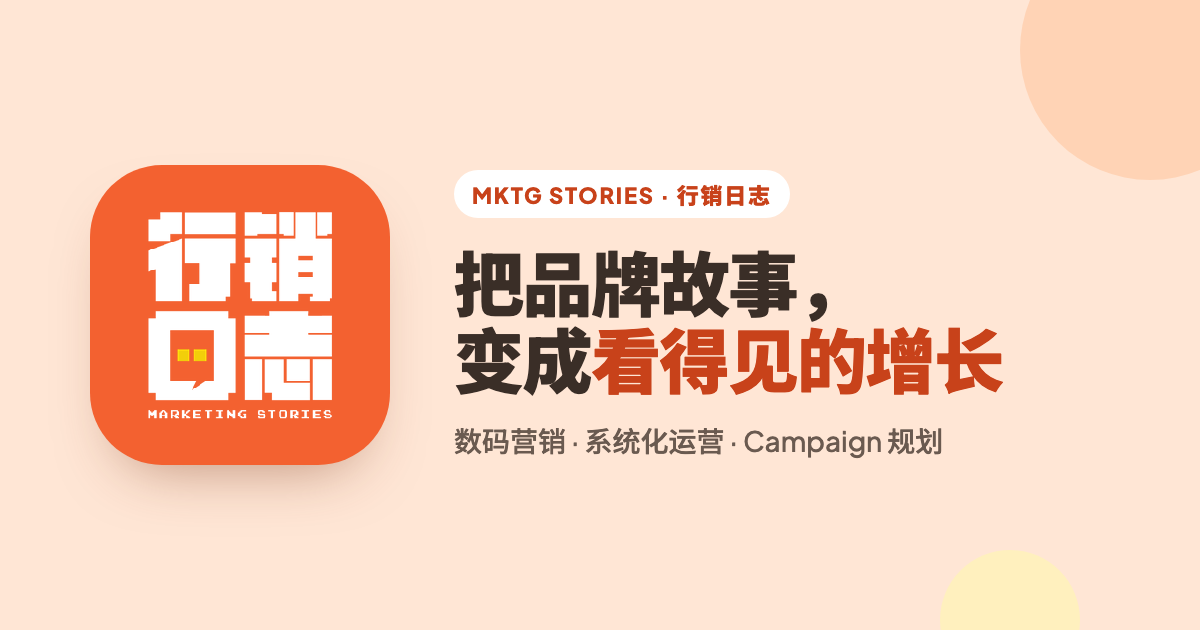
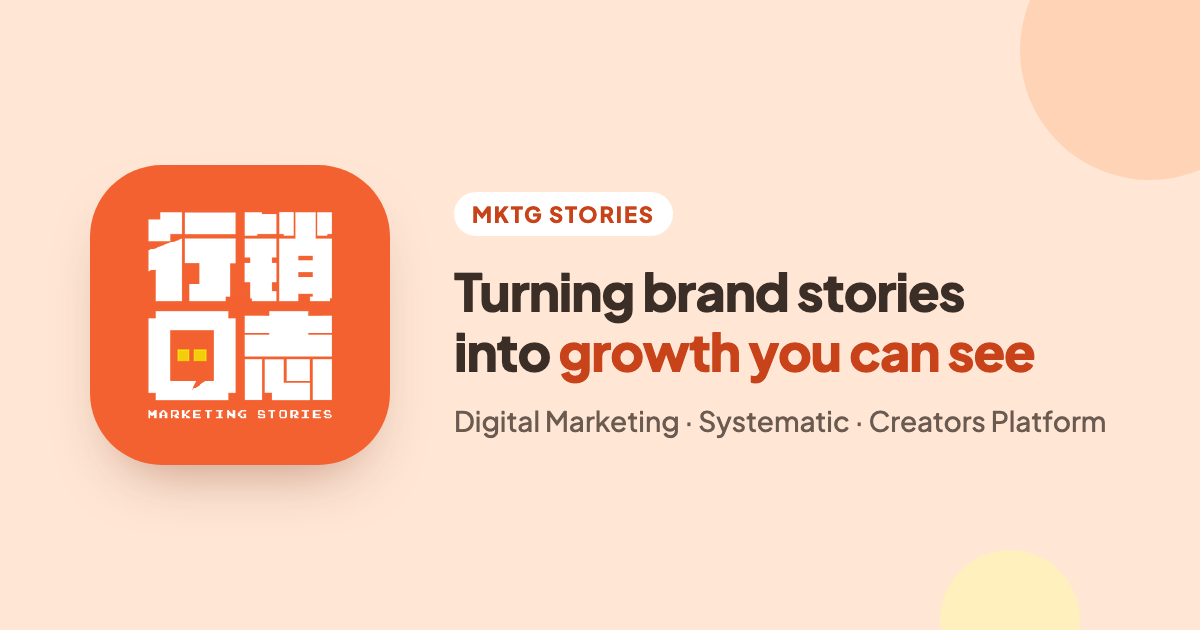
English by default, English titles and preview image, tier follower ranges

Changed region(s): [[0.37, 0.2714, 0.925, 0.7238]]

diff --git a/creators-platform/index.html b/creators-platform/index.html
@@ -1,17 +1,17 @@
 <!doctype html>
-<html lang="zh-Hans">
+<html lang="en" data-lang="en">
 <head>
 <meta charset="utf-8">
 <meta name="viewport" content="width=device-width,initial-scale=1,viewport-fit=cover">
 <meta name="color-scheme" content="light">
-<title>Creators Platform by MKTG Stories | 行销日志</title>
-<meta name="description" content="Creators Platform by MKTG Stories：每一档 KOC campaign 都在同一个平台上。档期与创意、执行、结案报告，品牌随时登录看进度和成效。">
+<title>Creators Platform by MKTG Stories</title>
+<meta name="description" content="Creators Platform by MKTG Stories: KOC seeding from our own creator pool, with every campaign, review and report on one platform your brand can log in to.">
 <link rel="canonical" href="https://aboutus.mktg-stories.com/creators-platform/">
 <link rel="icon" type="image/png" href="../favicon.png">
 <meta property="og:type" content="website">
 <meta property="og:site_name" content="MKTG Stories 行销日志">
-<meta property="og:title" content="Creators Platform by MKTG Stories | 行销日志">
-<meta property="og:description" content="Creators Platform by MKTG Stories：每一档 KOC campaign 都在同一个平台上。档期与创意、执行、结案报告，品牌随时登录看进度和成效。">
+<meta property="og:title" content="Creators Platform by MKTG Stories">
+<meta property="og:description" content="Creators Platform by MKTG Stories: KOC seeding from our own creator pool, with every campaign, review and report on one platform your brand can log in to.">
 <meta property="og:url" content="https://aboutus.mktg-stories.com/creators-platform/">
 <meta property="og:image" content="https://aboutus.mktg-stories.com/og.png">
 <meta name="twitter:card" content="summary_large_image">
@@ -667,6 +667,7 @@ footer.site{padding-block:clamp(56px,7vw,88px) 40px}
 .bh{padding-top:0}
 .bl{font-weight:700;color:var(--ink-2);font-size:14.5px}
 .tag{font-weight:800;font-size:13px;padding:5px 12px;border-radius:999px;justify-self:start}
+.bh .tag{border-radius:14px;line-height:1.25}.bh .tag small{display:block;font-size:11px;font-weight:700;opacity:.85}
 .tag.t1{background:var(--brand);color:#fff}.tag.t2{background:var(--butter)}
 .bv{display:grid;gap:6px}
 .bv b{font-size:clamp(18px,2.2vw,26px);font-weight:800;letter-spacing:-.02em;font-variant-numeric:tabular-nums}
@@ -854,7 +855,7 @@ footer.site{padding-block:clamp(56px,7vw,88px) 40px}
   <h2 class="h2"><span class="z">Tier 1 和 Tier 2，平均能带来什么？</span><span class="e">What do Tier 1 and Tier 2 bring, on average?</span></h2>
   <p class="sub-lead"><span class="z">不是我们说的，是过去所有活动的平均。</span><span class="e">Not our claim: the average across every campaign we have run.</span></p>
   <div class="bench reveal">
-    <div class="br bh"><span></span><span class="tag t1">Tier 1 KOC</span><span class="tag t2">Tier 2 KOC</span></div>
+    <div class="br bh"><span></span><span class="tag t1">Tier 1 KOC<small><span class="z">1 万粉以上</span><span class="e">10K+ followers</span></small></span><span class="tag t2">Tier 2 KOC<small><span class="z">1 千 – 1 万粉</span><span class="e">1K–10K followers</span></small></span></div>
     <div class="br"><span class="bl"><span class="z">平均费用 / 篇</span><span class="e">Avg fee per post</span></span>
           <span class="bv"><b>RM 850</b><span class="bb t1"><i style="--w:100.0%"></i></span></span><span class="bv"><b>RM 300</b><span class="bb t2"><i style="--w:35.3%"></i></span></span></div><div class="br"><span class="bl"><span class="z">平均曝光</span><span class="e">Avg impressions</span></span>
           <span class="bv"><b>31,982</b><span class="bb t1"><i style="--w:100.0%"></i></span></span><span class="bv"><b>8,181</b><span class="bb t2"><i style="--w:25.6%"></i></span></span></div><div class="br"><span class="bl"><span class="z">平均观看</span><span class="e">Avg views</span></span>
@@ -942,7 +943,7 @@ footer.site{padding-block:clamp(56px,7vw,88px) 40px}
       <div class="qm-opts" hidden><div class="qf-o"><small><span class="z">类型</span><span class="e">Type</span></small><div class="hc-ch"><label><input type="radio" name="web_type" value="活动落地页"><span><span class="z">活动落地页</span><span class="e">Campaign landing page</span></span></label><label><input type="radio" name="web_type" value="品牌官网"><span><span class="z">品牌官网</span><span class="e">Brand website</span></span></label><label><input type="radio" name="web_type" value="电商网站"><span><span class="z">电商网站</span><span class="e">Online shop</span></span></label><label><input type="radio" name="web_type" value="还不确定"><span><span class="z">还不确定</span><span class="e">Not sure</span></span></label></div></div></div></div><div class="qm" data-k="koc"><label class="qm-h"><input type="checkbox" name="svc" value="KOC 种草" data-k="koc" checked>
       <span class="qm-box"><span class="qm-tick">✓</span><span class="qm-t"><b><span class="z">KOC 种草</span><span class="e">KOC seeding</span></b><small>Creators Platform</small></span><em><span class="z">每档活动</span><span class="e">Per campaign</span></em></span></label>
       <ul class="qm-inc"><li><span class="z">从自有博主 pool 推荐博主</span><span class="e">Creators from our own pool</span></li><li><span class="z">排档期、审稿、发布</span><span class="e">Scheduling, reviews and posting</span></li><li><span class="z">结案报告与专属页面</span><span class="e">Report and your own page</span></li></ul><p class="qm-p"><span class="z">按需求报价</span><span class="e">Quoted to your needs</span></p>
-      <div class="qm-opts"><div class="qf-o"><small><span class="z">Tier 1 博主</span><span class="e">Tier 1 creators</span></small><div class="hc-ch"><label><input type="radio" name="koc_t1" value="0"><span>0</span></label><label><input type="radio" name="koc_t1" value="1–2"><span>1–2</span></label><label><input type="radio" name="koc_t1" value="3–5"><span>3–5</span></label><label><input type="radio" name="koc_t1" value="6+"><span>6+</span></label></div></div><div class="qf-o"><small><span class="z">Tier 2 博主</span><span class="e">Tier 2 creators</span></small><div class="hc-ch"><label><input type="radio" name="koc_t2" value="0"><span>0</span></label><label><input type="radio" name="koc_t2" value="1–5"><span>1–5</span></label><label><input type="radio" name="koc_t2" value="6–10"><span>6–10</span></label><label><input type="radio" name="koc_t2" value="11+"><span>11+</span></label></div></div></div></div><div class="qm" data-k="sys"><label class="qm-h"><input type="checkbox" name="svc" value="系统化运营" data-k="sys">
+      <div class="qm-opts"><div class="qf-o"><small><span class="z">Tier 1 博主（1 万粉以上）</span><span class="e">Tier 1 creators (10K+ followers)</span></small><div class="hc-ch"><label><input type="radio" name="koc_t1" value="0"><span>0</span></label><label><input type="radio" name="koc_t1" value="1–2"><span>1–2</span></label><label><input type="radio" name="koc_t1" value="3–5"><span>3–5</span></label><label><input type="radio" name="koc_t1" value="6+"><span>6+</span></label></div></div><div class="qf-o"><small><span class="z">Tier 2 博主（1 千 – 1 万粉）</span><span class="e">Tier 2 creators (1K–10K followers)</span></small><div class="hc-ch"><label><input type="radio" name="koc_t2" value="0"><span>0</span></label><label><input type="radio" name="koc_t2" value="1–5"><span>1–5</span></label><label><input type="radio" name="koc_t2" value="6–10"><span>6–10</span></label><label><input type="radio" name="koc_t2" value="11+"><span>11+</span></label></div></div></div></div><div class="qm" data-k="sys"><label class="qm-h"><input type="checkbox" name="svc" value="系统化运营" data-k="sys">
       <span class="qm-box"><span class="qm-tick">✓</span><span class="qm-t"><b><span class="z">系统化运营</span><span class="e">Systematic</span></b><small>Systematic</small></span><em><span class="z">项目</span><span class="e">Project</span></em></span></label>
       <ul class="qm-inc"><li><span class="z">先看你现在怎么做</span><span class="e">We map how you work today</span></li><li><span class="z">搭报表与工作流程</span><span class="e">Reports and workflows built</span></li><li><span class="z">交接与教学</span><span class="e">Handover and training</span></li></ul><p class="qm-p"><span class="z">按需求报价</span><span class="e">Quoted to your needs</span></p>
       <div class="qm-opts" hidden><div class="qf-o"><small><span class="z">想整理的</span><span class="e">What to sort out</span></small><div class="hc-ch"><label><input type="checkbox" name="sys_what" value="报表与数据"><span><span class="z">报表与数据</span><span class="e">Reports and data</span></span></label><label><input type="checkbox" name="sys_what" value="客户与订单资料"><span><span class="z">客户与订单资料</span><span class="e">Customer and order records</span></span></label><label><input type="checkbox" name="sys_what" value="内部流程"><span><span class="z">内部流程</span><span class="e">Internal workflows</span></span></label><label><input type="checkbox" name="sys_what" value="门市运营"><span><span class="z">门市运营</span><span class="e">Outlet operations</span></span></label><label><input type="checkbox" name="sys_what" value="还不确定"><span><span class="z">还不确定</span><span class="e">Not sure</span></span></label></div></div></div></div></div></fieldset>
@@ -986,7 +987,7 @@ footer.site{padding-block:clamp(56px,7vw,88px) 40px}
   function setLang(l){
     root.setAttribute('data-lang',l); root.setAttribute('lang',l==='en'?'en':'zh-Hans');
     bz.setAttribute('aria-pressed',String(l!=='en')); be.setAttribute('aria-pressed',String(l==='en'));
-    try{localStorage.setItem('mktg-profile-lang',l)}catch(e){}
+    try{localStorage.setItem('mktg-lang',l)}catch(e){}
     if(!link)return; var en=l==='en', subject=en?link.dataset.en:link.dataset.zh;
     var body=en?'Hi MKTG Stories,\n\nI would like to book a demo.\n\nBrand / company:\nName:\nPreferred time:\n':'你好 MKTG Stories，\n\n我想预约一次 Demo。\n\n品牌 / 公司：\n姓名：\n方便的时间：\n';
     link.setAttribute('href','mailto:'+EMAIL+'?subject='+encodeURIComponent(subject)+'&body='+encodeURIComponent(body));
@@ -998,8 +999,8 @@ footer.site{padding-block:clamp(56px,7vw,88px) 40px}
     var sel=function(){var r=document.createRange();r.selectNodeContents(addr);var s=window.getSelection();s.removeAllRanges();s.addRange(r)};
     try{navigator.clipboard.writeText(EMAIL).then(done,sel)}catch(e){sel()}
   });
-  var saved=null; try{saved=localStorage.getItem('mktg-profile-lang')}catch(e){}
-  setLang(saved==='en'?'en':'zh');
+  var saved=null; try{saved=localStorage.getItem('mktg-lang')}catch(e){}
+  setLang(saved==='zh'?'zh':'en');
   /* remember where the visitor came from (ads), for the health check */
   try{var qs=new URLSearchParams(location.search), src={};
     ['utm_source','utm_medium','utm_campaign','utm_term','utm_content','gclid'].forEach(function(k){if(qs.get(k))src[k]=qs.get(k)});

diff --git a/systematic/index.html b/systematic/index.html
@@ -1,17 +1,17 @@
 <!doctype html>
-<html lang="zh-Hans">
+<html lang="en" data-lang="en">
 <head>
 <meta charset="utf-8">
 <meta name="viewport" content="width=device-width,initial-scale=1,viewport-fit=cover">
 <meta name="color-scheme" content="light">
-<title>Systematic 转型 | MKTG Stories 行销日志</title>
-<meta name="description" content="把靠人记、靠表格的运营，变成有流程、会累积数据的系统：内容运营、数据看板、客户与业务管理、AI 工作流。">
+<title>Systematic | MKTG Stories</title>
+<meta name="description" content="Turn operations that live in people's heads and spreadsheets into systems: content operations, dashboards, customer and business records, AI workflows.">
 <link rel="canonical" href="https://aboutus.mktg-stories.com/systematic/">
 <link rel="icon" type="image/png" href="../favicon.png">
 <meta property="og:type" content="website">
 <meta property="og:site_name" content="MKTG Stories 行销日志">
-<meta property="og:title" content="Systematic 转型 | MKTG Stories 行销日志">
-<meta property="og:description" content="把靠人记、靠表格的运营，变成有流程、会累积数据的系统：内容运营、数据看板、客户与业务管理、AI 工作流。">
+<meta property="og:title" content="Systematic | MKTG Stories">
+<meta property="og:description" content="Turn operations that live in people's heads and spreadsheets into systems: content operations, dashboards, customer and business records, AI workflows.">
 <meta property="og:url" content="https://aboutus.mktg-stories.com/systematic/">
 <meta property="og:image" content="https://aboutus.mktg-stories.com/og.png">
 <meta name="twitter:card" content="summary_large_image">
@@ -667,6 +667,7 @@ footer.site{padding-block:clamp(56px,7vw,88px) 40px}
 .bh{padding-top:0}
 .bl{font-weight:700;color:var(--ink-2);font-size:14.5px}
 .tag{font-weight:800;font-size:13px;padding:5px 12px;border-radius:999px;justify-self:start}
+.bh .tag{border-radius:14px;line-height:1.25}.bh .tag small{display:block;font-size:11px;font-weight:700;opacity:.85}
 .tag.t1{background:var(--brand);color:#fff}.tag.t2{background:var(--butter)}
 .bv{display:grid;gap:6px}
 .bv b{font-size:clamp(18px,2.2vw,26px);font-weight:800;letter-spacing:-.02em;font-variant-numeric:tabular-nums}
@@ -917,7 +918,7 @@ footer.site{padding-block:clamp(56px,7vw,88px) 40px}
       <div class="qm-opts" hidden><div class="qf-o"><small><span class="z">类型</span><span class="e">Type</span></small><div class="hc-ch"><label><input type="radio" name="web_type" value="活动落地页"><span><span class="z">活动落地页</span><span class="e">Campaign landing page</span></span></label><label><input type="radio" name="web_type" value="品牌官网"><span><span class="z">品牌官网</span><span class="e">Brand website</span></span></label><label><input type="radio" name="web_type" value="电商网站"><span><span class="z">电商网站</span><span class="e">Online shop</span></span></label><label><input type="radio" name="web_type" value="还不确定"><span><span class="z">还不确定</span><span class="e">Not sure</span></span></label></div></div></div></div><div class="qm" data-k="koc"><label class="qm-h"><input type="checkbox" name="svc" value="KOC 种草" data-k="koc">
       <span class="qm-box"><span class="qm-tick">✓</span><span class="qm-t"><b><span class="z">KOC 种草</span><span class="e">KOC seeding</span></b><small>Creators Platform</small></span><em><span class="z">每档活动</span><span class="e">Per campaign</span></em></span></label>
       <ul class="qm-inc"><li><span class="z">从自有博主 pool 推荐博主</span><span class="e">Creators from our own pool</span></li><li><span class="z">排档期、审稿、发布</span><span class="e">Scheduling, reviews and posting</span></li><li><span class="z">结案报告与专属页面</span><span class="e">Report and your own page</span></li></ul><p class="qm-p"><span class="z">按需求报价</span><span class="e">Quoted to your needs</span></p>
-      <div class="qm-opts" hidden><div class="qf-o"><small><span class="z">Tier 1 博主</span><span class="e">Tier 1 creators</span></small><div class="hc-ch"><label><input type="radio" name="koc_t1" value="0"><span>0</span></label><label><input type="radio" name="koc_t1" value="1–2"><span>1–2</span></label><label><input type="radio" name="koc_t1" value="3–5"><span>3–5</span></label><label><input type="radio" name="koc_t1" value="6+"><span>6+</span></label></div></div><div class="qf-o"><small><span class="z">Tier 2 博主</span><span class="e">Tier 2 creators</span></small><div class="hc-ch"><label><input type="radio" name="koc_t2" value="0"><span>0</span></label><label><input type="radio" name="koc_t2" value="1–5"><span>1–5</span></label><label><input type="radio" name="koc_t2" value="6–10"><span>6–10</span></label><label><input type="radio" name="koc_t2" value="11+"><span>11+</span></label></div></div></div></div><div class="qm" data-k="sys"><label class="qm-h"><input type="checkbox" name="svc" value="系统化运营" data-k="sys" checked>
+      <div class="qm-opts" hidden><div class="qf-o"><small><span class="z">Tier 1 博主（1 万粉以上）</span><span class="e">Tier 1 creators (10K+ followers)</span></small><div class="hc-ch"><label><input type="radio" name="koc_t1" value="0"><span>0</span></label><label><input type="radio" name="koc_t1" value="1–2"><span>1–2</span></label><label><input type="radio" name="koc_t1" value="3–5"><span>3–5</span></label><label><input type="radio" name="koc_t1" value="6+"><span>6+</span></label></div></div><div class="qf-o"><small><span class="z">Tier 2 博主（1 千 – 1 万粉）</span><span class="e">Tier 2 creators (1K–10K followers)</span></small><div class="hc-ch"><label><input type="radio" name="koc_t2" value="0"><span>0</span></label><label><input type="radio" name="koc_t2" value="1–5"><span>1–5</span></label><label><input type="radio" name="koc_t2" value="6–10"><span>6–10</span></label><label><input type="radio" name="koc_t2" value="11+"><span>11+</span></label></div></div></div></div><div class="qm" data-k="sys"><label class="qm-h"><input type="checkbox" name="svc" value="系统化运营" data-k="sys" checked>
       <span class="qm-box"><span class="qm-tick">✓</span><span class="qm-t"><b><span class="z">系统化运营</span><span class="e">Systematic</span></b><small>Systematic</small></span><em><span class="z">项目</span><span class="e">Project</span></em></span></label>
       <ul class="qm-inc"><li><span class="z">先看你现在怎么做</span><span class="e">We map how you work today</span></li><li><span class="z">搭报表与工作流程</span><span class="e">Reports and workflows built</span></li><li><span class="z">交接与教学</span><span class="e">Handover and training</span></li></ul><p class="qm-p"><span class="z">按需求报价</span><span class="e">Quoted to your needs</span></p>
       <div class="qm-opts"><div class="qf-o"><small><span class="z">想整理的</span><span class="e">What to sort out</span></small><div class="hc-ch"><label><input type="checkbox" name="sys_what" value="报表与数据"><span><span class="z">报表与数据</span><span class="e">Reports and data</span></span></label><label><input type="checkbox" name="sys_what" value="客户与订单资料"><span><span class="z">客户与订单资料</span><span class="e">Customer and order records</span></span></label><label><input type="checkbox" name="sys_what" value="内部流程"><span><span class="z">内部流程</span><span class="e">Internal workflows</span></span></label><label><input type="checkbox" name="sys_what" value="门市运营"><span><span class="z">门市运营</span><span class="e">Outlet operations</span></span></label><label><input type="checkbox" name="sys_what" value="还不确定"><span><span class="z">还不确定</span><span class="e">Not sure</span></span></label></div></div></div></div></div></fieldset>
@@ -961,7 +962,7 @@ footer.site{padding-block:clamp(56px,7vw,88px) 40px}
   function setLang(l){
     root.setAttribute('data-lang',l); root.setAttribute('lang',l==='en'?'en':'zh-Hans');
     bz.setAttribute('aria-pressed',String(l!=='en')); be.setAttribute('aria-pressed',String(l==='en'));
-    try{localStorage.setItem('mktg-profile-lang',l)}catch(e){}
+    try{localStorage.setItem('mktg-lang',l)}catch(e){}
     if(!link)return; var en=l==='en', subject=en?link.dataset.en:link.dataset.zh;
     var body=en?'Hi MKTG Stories,\n\nI would like to book a demo.\n\nBrand / company:\nName:\nPreferred time:\n':'你好 MKTG Stories，\n\n我想预约一次 Demo。\n\n品牌 / 公司：\n姓名：\n方便的时间：\n';
     link.setAttribute('href','mailto:'+EMAIL+'?subject='+encodeURIComponent(subject)+'&body='+encodeURIComponent(body));
@@ -973,8 +974,8 @@ footer.site{padding-block:clamp(56px,7vw,88px) 40px}
     var sel=function(){var r=document.createRange();r.selectNodeContents(addr);var s=window.getSelection();s.removeAllRanges();s.addRange(r)};
     try{navigator.clipboard.writeText(EMAIL).then(done,sel)}catch(e){sel()}
   });
-  var saved=null; try{saved=localStorage.getItem('mktg-profile-lang')}catch(e){}
-  setLang(saved==='en'?'en':'zh');
+  var saved=null; try{saved=localStorage.getItem('mktg-lang')}catch(e){}
+  setLang(saved==='zh'?'zh':'en');
   /* remember where the visitor came from (ads), for the health check */
   try{var qs=new URLSearchParams(location.search), src={};
     ['utm_source','utm_medium','utm_campaign','utm_term','utm_content','gclid'].forEach(function(k){if(qs.get(k))src[k]=qs.get(k)});

diff --git a/digital-marketing/index.html b/digital-marketing/index.html
@@ -1,17 +1,17 @@
 <!doctype html>
-<html lang="zh-Hans">
+<html lang="en" data-lang="en">
 <head>
 <meta charset="utf-8">
 <meta name="viewport" content="width=device-width,initial-scale=1,viewport-fit=cover">
 <meta name="color-scheme" content="light">
-<title>Digital Marketing | MKTG Stories 行销日志</title>
-<meta name="description" content="内容经营、内容制作、广告投递、网站制作：让人看到你、找到你，再选择你。">
+<title>Digital Marketing | MKTG Stories</title>
+<meta name="description" content="Social media, content production, paid ads and websites from one Malaysian team: get seen, get found, get chosen.">
 <link rel="canonical" href="https://aboutus.mktg-stories.com/digital-marketing/">
 <link rel="icon" type="image/png" href="../favicon.png">
 <meta property="og:type" content="website">
 <meta property="og:site_name" content="MKTG Stories 行销日志">
-<meta property="og:title" content="Digital Marketing | MKTG Stories 行销日志">
-<meta property="og:description" content="内容经营、内容制作、广告投递、网站制作：让人看到你、找到你，再选择你。">
+<meta property="og:title" content="Digital Marketing | MKTG Stories">
+<meta property="og:description" content="Social media, content production, paid ads and websites from one Malaysian team: get seen, get found, get chosen.">
 <meta property="og:url" content="https://aboutus.mktg-stories.com/digital-marketing/">
 <meta property="og:image" content="https://aboutus.mktg-stories.com/og.png">
 <meta name="twitter:card" content="summary_large_image">
@@ -667,6 +667,7 @@ footer.site{padding-block:clamp(56px,7vw,88px) 40px}
 .bh{padding-top:0}
 .bl{font-weight:700;color:var(--ink-2);font-size:14.5px}
 .tag{font-weight:800;font-size:13px;padding:5px 12px;border-radius:999px;justify-self:start}
+.bh .tag{border-radius:14px;line-height:1.25}.bh .tag small{display:block;font-size:11px;font-weight:700;opacity:.85}
 .tag.t1{background:var(--brand);color:#fff}.tag.t2{background:var(--butter)}
 .bv{display:grid;gap:6px}
 .bv b{font-size:clamp(18px,2.2vw,26px);font-weight:800;letter-spacing:-.02em;font-variant-numeric:tabular-nums}
@@ -985,7 +986,7 @@ footer.site{padding-block:clamp(56px,7vw,88px) 40px}
       <div class="qm-opts" hidden><div class="qf-o"><small><span class="z">类型</span><span class="e">Type</span></small><div class="hc-ch"><label><input type="radio" name="web_type" value="活动落地页"><span><span class="z">活动落地页</span><span class="e">Campaign landing page</span></span></label><label><input type="radio" name="web_type" value="品牌官网"><span><span class="z">品牌官网</span><span class="e">Brand website</span></span></label><label><input type="radio" name="web_type" value="电商网站"><span><span class="z">电商网站</span><span class="e">Online shop</span></span></label><label><input type="radio" name="web_type" value="还不确定"><span><span class="z">还不确定</span><span class="e">Not sure</span></span></label></div></div></div></div><div class="qm" data-k="koc"><label class="qm-h"><input type="checkbox" name="svc" value="KOC 种草" data-k="koc">
       <span class="qm-box"><span class="qm-tick">✓</span><span class="qm-t"><b><span class="z">KOC 种草</span><span class="e">KOC seeding</span></b><small>Creators Platform</small></span><em><span class="z">每档活动</span><span class="e">Per campaign</span></em></span></label>
       <ul class="qm-inc"><li><span class="z">从自有博主 pool 推荐博主</span><span class="e">Creators from our own pool</span></li><li><span class="z">排档期、审稿、发布</span><span class="e">Scheduling, reviews and posting</span></li><li><span class="z">结案报告与专属页面</span><span class="e">Report and your own page</span></li></ul><p class="qm-p"><span class="z">按需求报价</span><span class="e">Quoted to your needs</span></p>
-      <div class="qm-opts" hidden><div class="qf-o"><small><span class="z">Tier 1 博主</span><span class="e">Tier 1 creators</span></small><div class="hc-ch"><label><input type="radio" name="koc_t1" value="0"><span>0</span></label><label><input type="radio" name="koc_t1" value="1–2"><span>1–2</span></label><label><input type="radio" name="koc_t1" value="3–5"><span>3–5</span></label><label><input type="radio" name="koc_t1" value="6+"><span>6+</span></label></div></div><div class="qf-o"><small><span class="z">Tier 2 博主</span><span class="e">Tier 2 creators</span></small><div class="hc-ch"><label><input type="radio" name="koc_t2" value="0"><span>0</span></label><label><input type="radio" name="koc_t2" value="1–5"><span>1–5</span></label><label><input type="radio" name="koc_t2" value="6–10"><span>6–10</span></label><label><input type="radio" name="koc_t2" value="11+"><span>11+</span></label></div></div></div></div><div class="qm" data-k="sys"><label class="qm-h"><input type="checkbox" name="svc" value="系统化运营" data-k="sys">
+      <div class="qm-opts" hidden><div class="qf-o"><small><span class="z">Tier 1 博主（1 万粉以上）</span><span class="e">Tier 1 creators (10K+ followers)</span></small><div class="hc-ch"><label><input type="radio" name="koc_t1" value="0"><span>0</span></label><label><input type="radio" name="koc_t1" value="1–2"><span>1–2</span></label><label><input type="radio" name="koc_t1" value="3–5"><span>3–5</span></label><label><input type="radio" name="koc_t1" value="6+"><span>6+</span></label></div></div><div class="qf-o"><small><span class="z">Tier 2 博主（1 千 – 1 万粉）</span><span class="e">Tier 2 creators (1K–10K followers)</span></small><div class="hc-ch"><label><input type="radio" name="koc_t2" value="0"><span>0</span></label><label><input type="radio" name="koc_t2" value="1–5"><span>1–5</span></label><label><input type="radio" name="koc_t2" value="6–10"><span>6–10</span></label><label><input type="radio" name="koc_t2" value="11+"><span>11+</span></label></div></div></div></div><div class="qm" data-k="sys"><label class="qm-h"><input type="checkbox" name="svc" value="系统化运营" data-k="sys">
       <span class="qm-box"><span class="qm-tick">✓</span><span class="qm-t"><b><span class="z">系统化运营</span><span class="e">Systematic</span></b><small>Systematic</small></span><em><span class="z">项目</span><span class="e">Project</span></em></span></label>
       <ul class="qm-inc"><li><span class="z">先看你现在怎么做</span><span class="e">We map how you work today</span></li><li><span class="z">搭报表与工作流程</span><span class="e">Reports and workflows built</span></li><li><span class="z">交接与教学</span><span class="e">Handover and training</span></li></ul><p class="qm-p"><span class="z">按需求报价</span><span class="e">Quoted to your needs</span></p>
       <div class="qm-opts" hidden><div class="qf-o"><small><span class="z">想整理的</span><span class="e">What to sort out</span></small><div class="hc-ch"><label><input type="checkbox" name="sys_what" value="报表与数据"><span><span class="z">报表与数据</span><span class="e">Reports and data</span></span></label><label><input type="checkbox" name="sys_what" value="客户与订单资料"><span><span class="z">客户与订单资料</span><span class="e">Customer and order records</span></span></label><label><input type="checkbox" name="sys_what" value="内部流程"><span><span class="z">内部流程</span><span class="e">Internal workflows</span></span></label><label><input type="checkbox" name="sys_what" value="门市运营"><span><span class="z">门市运营</span><span class="e">Outlet operations</span></span></label><label><input type="checkbox" name="sys_what" value="还不确定"><span><span class="z">还不确定</span><span class="e">Not sure</span></span></label></div></div></div></div></div></fieldset>
@@ -1029,7 +1030,7 @@ footer.site{padding-block:clamp(56px,7vw,88px) 40px}
   function setLang(l){
     root.setAttribute('data-lang',l); root.setAttribute('lang',l==='en'?'en':'zh-Hans');
     bz.setAttribute('aria-pressed',String(l!=='en')); be.setAttribute('aria-pressed',String(l==='en'));
-    try{localStorage.setItem('mktg-profile-lang',l)}catch(e){}
+    try{localStorage.setItem('mktg-lang',l)}catch(e){}
     if(!link)return; var en=l==='en', subject=en?link.dataset.en:link.dataset.zh;
     var body=en?'Hi MKTG Stories,\n\nI would like to book a demo.\n\nBrand / company:\nName:\nPreferred time:\n':'你好 MKTG Stories，\n\n我想预约一次 Demo。\n\n品牌 / 公司：\n姓名：\n方便的时间：\n';
     link.setAttribute('href','mailto:'+EMAIL+'?subject='+encodeURIComponent(subject)+'&body='+encodeURIComponent(body));
@@ -1041,8 +1042,8 @@ footer.site{padding-block:clamp(56px,7vw,88px) 40px}
     var sel=function(){var r=document.createRange();r.selectNodeContents(addr);var s=window.getSelection();s.removeAllRanges();s.addRange(r)};
     try{navigator.clipboard.writeText(EMAIL).then(done,sel)}catch(e){sel()}
   });
-  var saved=null; try{saved=localStorage.getItem('mktg-profile-lang')}catch(e){}
-  setLang(saved==='en'?'en':'zh');
+  var saved=null; try{saved=localStorage.getItem('mktg-lang')}catch(e){}
+  setLang(saved==='zh'?'zh':'en');
   /* remember where the visitor came from (ads), for the health check */
   try{var qs=new URLSearchParams(location.search), src={};
     ['utm_source','utm_medium','utm_campaign','utm_term','utm_content','gclid'].forEach(function(k){if(qs.get(k))src[k]=qs.get(k)});

diff --git a/index.html b/index.html
@@ -1,17 +1,17 @@
 <!doctype html>
-<html lang="zh-Hans">
+<html lang="en" data-lang="en">
 <head>
 <meta charset="utf-8">
 <meta name="viewport" content="width=device-width,initial-scale=1,viewport-fit=cover">
 <meta name="color-scheme" content="light">
-<title>MKTG Stories 行销日志 | 数码营销 · 系统化运营 · Creators Platform</title>
-<meta name="description" content="MKTG Stories 行销日志是一家马来西亚的数码营销公司：内容经营、内容制作、广告投递、网站制作、KOC，系统化运营，以及 KOC 管理平台 Creators Platform，覆盖小红书、TikTok、LEMON8、Instagram。">
+<title>MKTG Stories | Digital Marketing · Systematic · Creators Platform</title>
+<meta name="description" content="MKTG Stories is a Malaysian digital marketing company: social media, content, paid ads, websites and KOC seeding, systematic operations, and Creators Platform for KOC campaigns, across Xiaohongshu, TikTok, LEMON8 and Instagram.">
 <link rel="canonical" href="https://aboutus.mktg-stories.com/">
 <link rel="icon" type="image/png" href="favicon.png">
 <meta property="og:type" content="website">
 <meta property="og:site_name" content="MKTG Stories 行销日志">
-<meta property="og:title" content="MKTG Stories 行销日志 | 数码营销 · 系统化运营 · Creators Platform">
-<meta property="og:description" content="MKTG Stories 行销日志是一家马来西亚的数码营销公司：内容经营、内容制作、广告投递、网站制作、KOC，系统化运营，以及 KOC 管理平台 Creators Platform，覆盖小红书、TikTok、LEMON8、Instagram。">
+<meta property="og:title" content="MKTG Stories | Digital Marketing · Systematic · Creators Platform">
+<meta property="og:description" content="MKTG Stories is a Malaysian digital marketing company: social media, content, paid ads, websites and KOC seeding, systematic operations, and Creators Platform for KOC campaigns, across Xiaohongshu, TikTok, LEMON8 and Instagram.">
 <meta property="og:url" content="https://aboutus.mktg-stories.com/">
 <meta property="og:image" content="https://aboutus.mktg-stories.com/og.png">
 <meta property="og:image:width" content="1200">
@@ -660,8 +660,8 @@ footer.site{padding-block:clamp(56px,7vw,88px) 40px}
       <div class="dots-card">
         <div class="dots" id="dots" role="img" aria-label="206 creators: 39 Tier 1 KOCs, 154 Tier 2 KOCs, 13 Instagram KOLs"></div>
         <div class="legend">
-          <span><i class="t1"></i>Tier 1 KOC · 39</span>
-          <span><i class="t2"></i>Tier 2 KOC · 154</span>
+          <span><i class="t1"></i>Tier 1 KOC <small>(10K+)</small> · 39</span>
+          <span><i class="t2"></i>Tier 2 KOC <small>(1K–10K)</small> · 154</span>
           <span><i class="ig"></i>Instagram KOL · 13</span>
         </div>
         <p class="dots-note"><span class="z">来源：Creators Platform 博主库与合作记录，截至 2026.10.15。</span><span class="e">Source: Creators Platform creator database and collaboration log, as of 15 Oct 2026.</span></p>
@@ -818,7 +818,7 @@ footer.site{padding-block:clamp(56px,7vw,88px) 40px}
     root.setAttribute('lang',l==='en'?'en':'zh-Hans');
     bz.setAttribute('aria-pressed',String(l!=='en'));
     be.setAttribute('aria-pressed',String(l==='en'));
-    try{localStorage.setItem('mktg-profile-lang',l)}catch(e){}
+    try{localStorage.setItem('mktg-lang',l)}catch(e){}
     buildMail();
   }
   bz.addEventListener('click',function(){setLang('zh')});
@@ -860,8 +860,8 @@ footer.site{padding-block:clamp(56px,7vw,88px) 40px}
   });
 
   var saved=null;
-  try{saved=localStorage.getItem('mktg-profile-lang')}catch(e){}
-  setLang(saved==='en'?'en':'zh');
+  try{saved=localStorage.getItem('mktg-lang')}catch(e){}
+  setLang(saved==='zh'?'zh':'en');
 })();
 </script>
 

diff --git a/privacy/index.html b/privacy/index.html
@@ -1,17 +1,17 @@
 <!doctype html>
-<html lang="zh-Hans">
+<html lang="en" data-lang="en">
 <head>
 <meta charset="utf-8">
 <meta name="viewport" content="width=device-width,initial-scale=1,viewport-fit=cover">
 <meta name="color-scheme" content="light">
-<title>隐私说明 | MKTG Stories 行销日志</title>
-<meta name="description" content="内容经营、内容制作、广告投递、网站制作：让人看到你、找到你，再选择你。">
+<title>Privacy notice | MKTG Stories</title>
+<meta name="description" content="How MKTG Stories uses the details you give us in the quote form.">
 <link rel="canonical" href="https://aboutus.mktg-stories.com/privacy/">
 <link rel="icon" type="image/png" href="../favicon.png">
 <meta property="og:type" content="website">
 <meta property="og:site_name" content="MKTG Stories 行销日志">
-<meta property="og:title" content="Digital Marketing | MKTG Stories 行销日志">
-<meta property="og:description" content="内容经营、内容制作、广告投递、网站制作：让人看到你、找到你，再选择你。">
+<meta property="og:title" content="Privacy notice | MKTG Stories">
+<meta property="og:description" content="How MKTG Stories uses the details you give us in the quote form.">
 <meta property="og:url" content="https://aboutus.mktg-stories.com/digital-marketing/">
 <meta property="og:image" content="https://aboutus.mktg-stories.com/og.png">
 <meta name="twitter:card" content="summary_large_image">
@@ -667,6 +667,7 @@ footer.site{padding-block:clamp(56px,7vw,88px) 40px}
 .bh{padding-top:0}
 .bl{font-weight:700;color:var(--ink-2);font-size:14.5px}
 .tag{font-weight:800;font-size:13px;padding:5px 12px;border-radius:999px;justify-self:start}
+.bh .tag{border-radius:14px;line-height:1.25}.bh .tag small{display:block;font-size:11px;font-weight:700;opacity:.85}
 .tag.t1{background:var(--brand);color:#fff}.tag.t2{background:var(--butter)}
 .bv{display:grid;gap:6px}
 .bv b{font-size:clamp(18px,2.2vw,26px);font-weight:800;letter-spacing:-.02em;font-variant-numeric:tabular-nums}
@@ -845,7 +846,7 @@ footer.site{padding-block:clamp(56px,7vw,88px) 40px}
   function setLang(l){
     root.setAttribute('data-lang',l); root.setAttribute('lang',l==='en'?'en':'zh-Hans');
     bz.setAttribute('aria-pressed',String(l!=='en')); be.setAttribute('aria-pressed',String(l==='en'));
-    try{localStorage.setItem('mktg-profile-lang',l)}catch(e){}
+    try{localStorage.setItem('mktg-lang',l)}catch(e){}
     if(!link)return; var en=l==='en', subject=en?link.dataset.en:link.dataset.zh;
     var body=en?'Hi MKTG Stories,\n\nI would like to book a demo.\n\nBrand / company:\nName:\nPreferred time:\n':'你好 MKTG Stories，\n\n我想预约一次 Demo。\n\n品牌 / 公司：\n姓名：\n方便的时间：\n';
     link.setAttribute('href','mailto:'+EMAIL+'?subject='+encodeURIComponent(subject)+'&body='+encodeURIComponent(body));
@@ -857,8 +858,8 @@ footer.site{padding-block:clamp(56px,7vw,88px) 40px}
     var sel=function(){var r=document.createRange();r.selectNodeContents(addr);var s=window.getSelection();s.removeAllRanges();s.addRange(r)};
     try{navigator.clipboard.writeText(EMAIL).then(done,sel)}catch(e){sel()}
   });
-  var saved=null; try{saved=localStorage.getItem('mktg-profile-lang')}catch(e){}
-  setLang(saved==='en'?'en':'zh');
+  var saved=null; try{saved=localStorage.getItem('mktg-lang')}catch(e){}
+  setLang(saved==='zh'?'zh':'en');
   /* remember where the visitor came from (ads), for the health check */
   try{var qs=new URLSearchParams(location.search), src={};
     ['utm_source','utm_medium','utm_campaign','utm_term','utm_content','gclid'].forEach(function(k){if(qs.get(k))src[k]=qs.get(k)});
